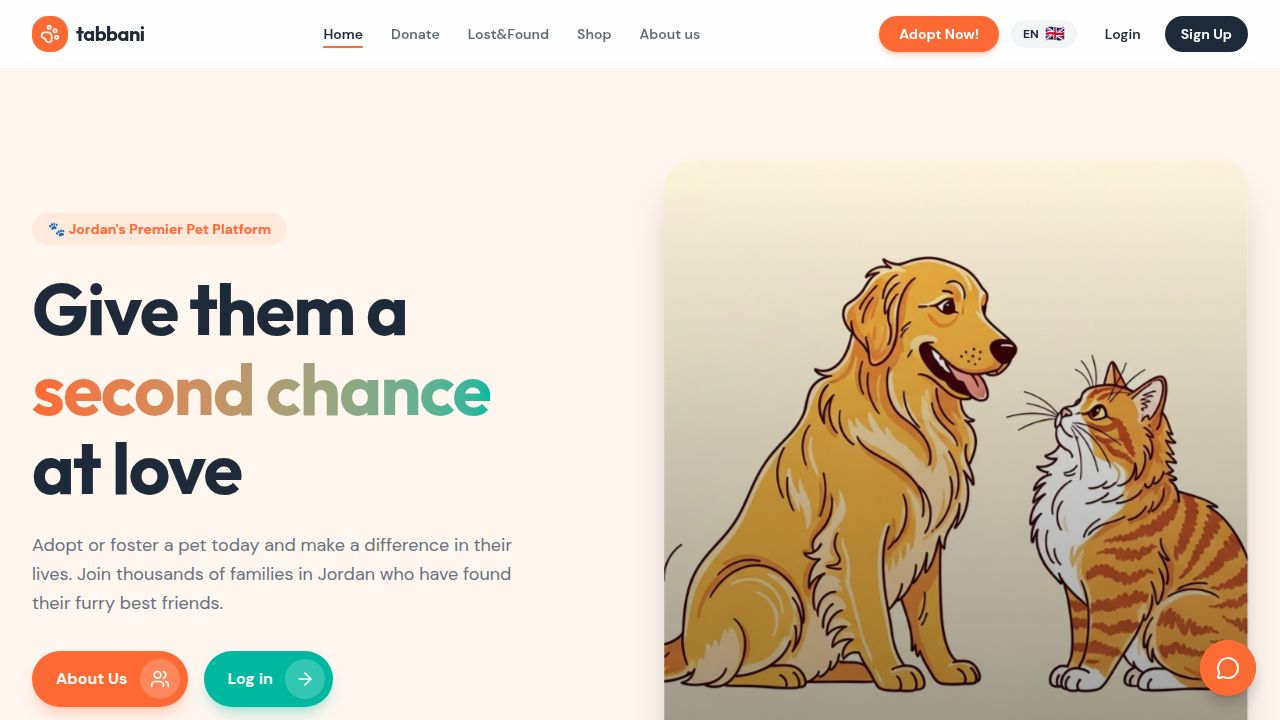
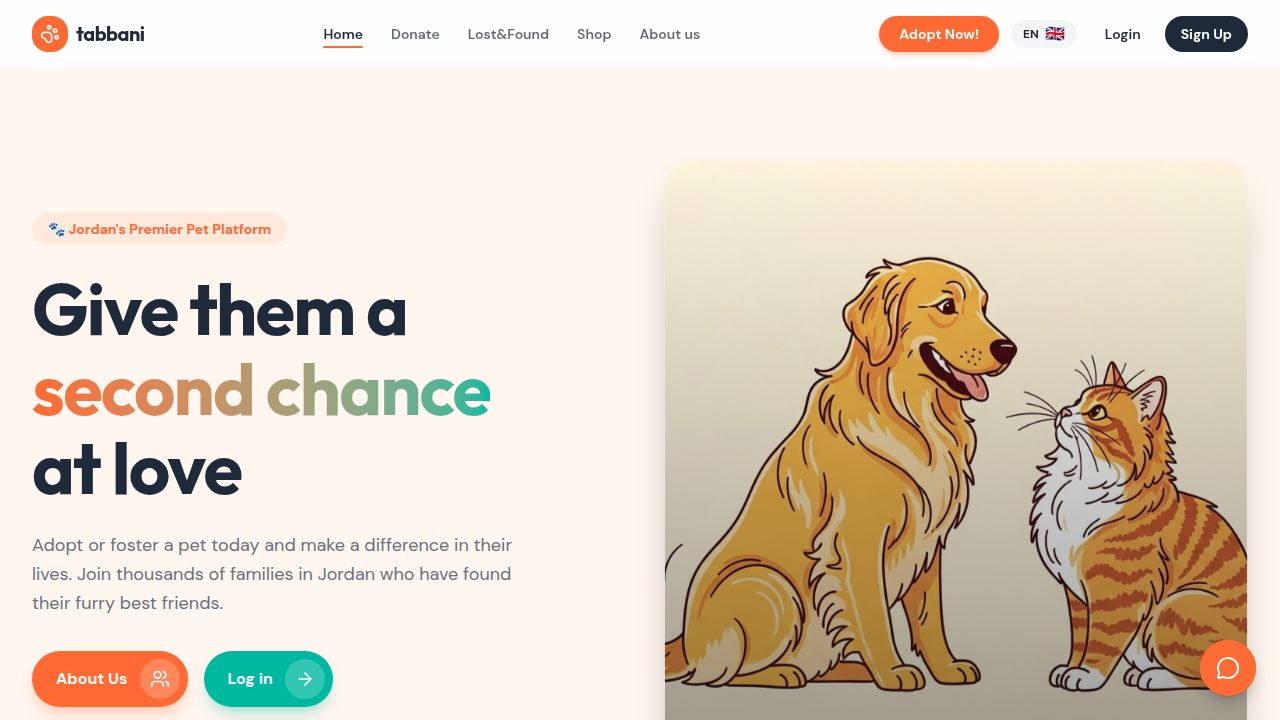
Task #61: Frontend performance optimization
Changes made:

1. Route-based code splitting (App.tsx)
   - Converted all 20+ page imports from static to React.lazy()
   - Added Suspense boundaries with spinner fallback (PageLoader)
   - Admin pages (12 routes), gallery, about, shop, donate, profile, etc. all lazy-loaded
   - AIChatWidget also lazy-loaded with null fallback

2. React Query defaults (App.tsx)
   - QueryClient now has staleTime: 60_000ms and refetchOnWindowFocus: false
   - Prevents unnecessary refetches on every component mount / tab switch

3. Adopt page server-side pagination (adopt.tsx)
   - Removed limit: 1000 and client-side filter/slice logic
   - Now uses page, limit: 20, and search params server-side
   - Added useDeferredValue for natural debouncing of search input
   - totalPages now comes from API response (data.totalPages)

4. Lost-found page improvements (lost-found.tsx)
   - Added search to ListLostFoundReportsQueryParams Zod schema (api-zod)
   - Added search ilike handler in lostFound.ts route
   - search is now sent server-side (no more client-side search)
   - isClientFiltering now only true for month/age filters (not search)
   - Limit reduced from 1000 to 200 when client filtering is active

5. Image lazy loading
   - pet-card.tsx: loading="lazy" decoding="async" on pet images
   - lost-found.tsx: loading="lazy" decoding="async" on report images
   - gallery.tsx already had loading="lazy" (no change needed)

6. Vite build chunk splitting (vite.config.ts)
[…]

diff --git a/artifacts/frontend/src/App.tsx b/artifacts/frontend/src/App.tsx
@@ -1,3 +1,4 @@
+import { lazy, Suspense } from "react";
 import { Switch, Route, Router as WouterRouter, Redirect } from "wouter";
 import { QueryClient, QueryClientProvider } from "@tanstack/react-query";
 import { Toaster } from "@/components/ui/toaster";
@@ -6,36 +7,52 @@ import { Layout } from "@/components/layout";
 import { AuthProvider, useAuth } from "@/contexts/auth-context";
 import OnboardingModal from "@/components/onboarding-modal";
 import CityGateModal from "@/components/city-gate-modal";
-import Home from "@/pages/home";
-import Adopt from "@/pages/adopt";
-import Foster from "@/pages/foster";
-import PetDetail from "@/pages/pet-detail";
-import LostFound from "@/pages/lost-found";
-import LostFoundDetail from "@/pages/lost-found-detail";
-import Donate from "@/pages/donate";
-import Gallery from "@/pages/gallery";
-import GalleryDetail from "@/pages/gallery-detail";
-import About from "@/pages/about";
-import Shop from "@/pages/shop";
-import Profile from "@/pages/profile";
-import Login from "@/pages/login";
-import Register from "@/pages/register";
-import AdminDashboard from "@/pages/admin/index";
-import AdminPets from "@/pages/admin/pets";
-import AdminUsers from "@/pages/admin/users";
-import AdminAdoptions from "@/pages/admin/adoptions";
-import AdminFosters from "@/pages/admin/fosters";
-import AdminAnalytics from "@/pages/admin/analytics";
-import AdminDonors from "@/pages/admin/donors";
-import AdminVolunteers from "@/pages/admin/volunteers";
-import AdminLostFound from "@/pages/admin/lost-found";
-import AdminContactMessages from "@/pages/admin/contact-messages";
-import AdminNotifications from "@/pages/admin/notifications";
-import AdminGallery from "@/pages/admin/gallery";
-import NotFound from "@/pages/not-found";
-import AIChatWidget from "@/components/ai-chat-widget";
 
-const queryClient = new QueryClient();
+const Home = lazy(() => import("@/pages/home"));
+const Login = lazy(() => import("@/pages/login"));
+const Register = lazy(() => import("@/pages/register"));
+const Adopt = lazy(() => import("@/pages/adopt"));
+const Foster = lazy(() => import("@/pages/foster"));
+const PetDetail = lazy(() => import("@/pages/pet-detail"));
+const LostFound = lazy(() => import("@/pages/lost-found"));
+const LostFoundDetail = lazy(() => import("@/pages/lost-found-detail"));
+const Donate = lazy(() => import("@/pages/donate"));
+const Gallery = lazy(() => import("@/pages/gallery"));
+const GalleryDetail = lazy(() => import("@/pages/gallery-detail"));
+const About = lazy(() => import("@/pages/about"));
+const Shop = lazy(() => import("@/pages/shop"));
+const Profile = lazy(() => import("@/pages/profile"));
+const AdminDashboard = lazy(() => import("@/pages/admin/index"));
+const AdminPets = lazy(() => import("@/pages/admin/pets"));
+const AdminUsers = lazy(() => import("@/pages/admin/users"));
+const AdminAdoptions = lazy(() => import("@/pages/admin/adoptions"));
+const AdminFosters = lazy(() => import("@/pages/admin/fosters"));
+const AdminAnalytics = lazy(() => import("@/pages/admin/analytics"));
+const AdminDonors = lazy(() => import("@/pages/admin/donors"));
+const AdminVolunteers = lazy(() => import("@/pages/admin/volunteers"));
+const AdminLostFound = lazy(() => import("@/pages/admin/lost-found"));
+const AdminContactMessages = lazy(() => import("@/pages/admin/contact-messages"));
+const AdminNotifications = lazy(() => import("@/pages/admin/notifications"));
+const AdminGallery = lazy(() => import("@/pages/admin/gallery"));
+const NotFound = lazy(() => import("@/pages/not-found"));
+const AIChatWidget = lazy(() => import("@/components/ai-chat-widget"));
+
+const queryClient = new QueryClient({
+  defaultOptions: {
+    queries: {
+      staleTime: 60_000,
+      refetchOnWindowFocus: false,
+    },
+  },
+});
+
+function PageLoader() {
+  return (
+    <div className="flex min-h-[40vh] items-center justify-center">
+      <div className="w-8 h-8 border-4 border-primary/20 border-t-primary rounded-full animate-spin" />
+    </div>
+  );
+}
 
 function AdminGuard({ children }: { children: React.ReactNode }) {
   const { user, isLoading } = useAuth();
@@ -70,67 +87,70 @@ function AppRoutes() {
     <OnboardingGate />
     <CityGate />
     <Switch>
-      {/* Auth pages — no layout wrapper */}
-      <Route path="/login" component={Login} />
-      <Route path="/register" component={Register} />
+      <Route path="/login">
+        <Suspense fallback={<PageLoader />}><Login /></Suspense>
+      </Route>
+      <Route path="/register">
+        <Suspense fallback={<PageLoader />}><Register /></Suspense>
+      </Route>
 
-      {/* Admin routes */}
       <Route path="/admin">
-        {() => <AdminGuard><AdminDashboard /></AdminGuard>}
+        {() => <AdminGuard><Suspense fallback={<PageLoader />}><AdminDashboard /></Suspense></AdminGuard>}
       </Route>
       <Route path="/admin/pets">
-        {() => <AdminGuard><AdminPets /></AdminGuard>}
+        {() => <AdminGuard><Suspense fallback={<PageLoader />}><AdminPets /></Suspense></AdminGuard>}
       </Route>
       <Route path="/admin/users">
-        {() => <AdminGuard><AdminUsers /></AdminGuard>}
+        {() => <AdminGuard><Suspense fallback={<PageLoader />}><AdminUsers /></Suspense></AdminGuard>}
       </Route>
       <Route path="/admin/adoptions">
-        {() => <AdminGuard><AdminAdoptions /></AdminGuard>}
+        {() => <AdminGuard><Suspense fallback={<PageLoader />}><AdminAdoptions /></Suspense></AdminGuard>}
       </Route>
       <Route path="/admin/fosters">
-        {() => <AdminGuard><AdminFosters /></AdminGuard>}
+        {() => <AdminGuard><Suspense fallback={<PageLoader />}><AdminFosters /></Suspense></AdminGuard>}
       </Route>
       <Route path="/admin/analytics">
-        {() => <AdminGuard><AdminAnalytics /></AdminGuard>}
+        {() => <AdminGuard><Suspense fallback={<PageLoader />}><AdminAnalytics /></Suspense></AdminGuard>}
       </Route>
       <Route path="/admin/donors">
-        {() => <AdminGuard><AdminDonors /></AdminGuard>}
+        {() => <AdminGuard><Suspense fallback={<PageLoader />}><AdminDonors /></Suspense></AdminGuard>}
       </Route>
       <Route path="/admin/volunteers">
-        {() => <AdminGuard><AdminVolunteers /></AdminGuard>}
+        {() => <AdminGuard><Suspense fallback={<PageLoader />}><AdminVolunteers /></Suspense></AdminGuard>}
       </Route>
       <Route path="/admin/lost-found">
-        {() => <AdminGuard><AdminLostFound /></AdminGuard>}
+        {() => <AdminGuard><Suspense fallback={<PageLoader />}><AdminLostFound /></Suspense></AdminGuard>}
       </Route>
       <Route path="/admin/contact-messages">
-        {() => <AdminGuard><AdminContactMessages /></AdminGuard>}
+        {() => <AdminGuard><Suspense fallback={<PageLoader />}><AdminContactMessages /></Suspense></AdminGuard>}
       </Route>
       <Route path="/admin/notifications">
-        {() => <AdminGuard><AdminNotifications /></AdminGuard>}
+        {() => <AdminGuard><Suspense fallback={<PageLoader />}><AdminNotifications /></Suspense></AdminGuard>}
       </Route>
       <Route path="/admin/gallery">
-        {() => <AdminGuard><AdminGallery /></AdminGuard>}
+        {() => <AdminGuard><Suspense fallback={<PageLoader />}><AdminGallery /></Suspense></AdminGuard>}
       </Route>
 
-      {/* All other routes use the Layout with navbar */}
       <Route>
         <Layout>
-          <Switch>
-            <Route path="/" component={Home} />
-            <Route path="/adopt" component={Adopt} />
-            <Route path="/foster" component={Foster} />
-            <Route path="/pets/:id" component={PetDetail} />
-            <Route path="/lost-found/:id" component={LostFoundDetail} />
-            <Route path="/lost-found" component={LostFound} />
-            <Route path="/donate" component={Donate} />
-            <Route path="/gallery/:id" component={GalleryDetail} />
-            <Route path="/gallery" component={Gallery} />
-            <Route path="/about" component={About} />
-            <Route path="/shop" component={Shop} />
-            <Route path="/profile" component={Profile} />
-            <Route component={NotFound} />
-          </Switch>
-          <AIChatWidget />
+          <Suspense fallback={<PageLoader />}>
+            <Switch>
+              <Route path="/" component={Home} />
+              <Route path="/adopt" component={Adopt} />
+              <Route path="/foster" component={Foster} />
+              <Route path="/pets/:id" component={PetDetail} />
+              <Route path="/lost-found/:id" component={LostFoundDetail} />
+              <Route path="/lost-found" component={LostFound} />
+              <Route path="/donate" component={Donate} />
+              <Route path="/gallery/:id" component={GalleryDetail} />
+              <Route path="/gallery" component={Gallery} />
+              <Route path="/about" component={About} />
+              <Route path="/shop" component={Shop} />
+              <Route path="/profile" component={Profile} />
+              <Route component={NotFound} />
+            </Switch>
+          </Suspense>
+          <Suspense fallback={null}><AIChatWidget /></Suspense>
         </Layout>
       </Route>
     </Switch>

diff --git a/artifacts/frontend/src/pages/adopt.tsx b/artifacts/frontend/src/pages/adopt.tsx
@@ -1,4 +1,4 @@
-import { useState } from "react";
+import { useState, useDeferredValue } from "react";
 import { useLocation } from "wouter";
 import { useListPets } from "@workspace/api-client-react";
 import { PetCard } from "@/components/pet-card";
@@ -12,6 +12,7 @@ type PurposeFilter = "adopt" | "foster" | "both";
 
 export default function Adopt() {
   const [search, setSearch] = useState("");
+  const deferredSearch = useDeferredValue(search);
   const [purpose, setPurpose] = useState<PurposeFilter>("adopt");
   const [page, setPage] = useState(1);
   const pageSize = 20;
@@ -33,6 +34,7 @@ export default function Adopt() {
       title: wasAdded ? t("adopt.addedToFav") : t("adopt.removedFromFav"),
     });
   };
+
   const [filters, setFilters] = useState<FilterBarState>({
     type: "", gender: "", minAge: "", maxAge: "", size: "", city: "", breed: "", month: "", sterilized: "",
   });
@@ -50,8 +52,9 @@ export default function Adopt() {
 
   const ageRange = parseAgeRange(filters.minAge);
 
-  const { data: rawData, isLoading, isError } = useListPets({
+  const { data, isLoading, isError } = useListPets({
     purpose: purpose === "both" ? undefined : purpose,
+    search: deferredSearch || undefined,
     type: filters.type || undefined,
     gender: filters.gender || undefined,
     size: filters.size || undefined,
@@ -60,23 +63,9 @@ export default function Adopt() {
     sterilized: sterilizedParam,
     minAge: ageRange.minAge,
     maxAge: ageRange.maxAge,
-    limit: 1000,
+    page,
+    limit: pageSize,
   });
-
-  const data = (() => {
-    if (!rawData) return rawData;
-    if (!search.trim()) return { ...rawData, pets: rawData.pets?.slice((page - 1) * pageSize, page * pageSize), total: rawData.pets?.length ?? 0 };
-    const tokens = search.trim().toLowerCase().split(/\s+/);
-    const filtered = (rawData.pets ?? []).filter((pet) => {
-      const haystack = [
-        pet.name, pet.type, pet.gender, pet.size, pet.city, pet.breed,
-        pet.ageMonths != null ? String(pet.ageMonths) : "",
-        pet.sterilized != null ? (pet.sterilized ? "yes sterilized" : "no not sterilized") : "",
-      ].join(" ").toLowerCase();
-      return tokens.every((token) => haystack.includes(token));
-    });
-    return { ...rawData, pets: filtered.slice((page - 1) * pageSize, page * pageSize), total: filtered.length };
-  })();
 
   const totalPages = Math.ceil((data?.total ?? 0) / pageSize) || 1;
 

diff --git a/artifacts/frontend/vite.config.ts b/artifacts/frontend/vite.config.ts
@@ -57,6 +57,30 @@ export default defineConfig({
   build: {
     outDir: path.resolve(import.meta.dirname, "dist/public"),
     emptyOutDir: true,
+    rollupOptions: {
+      output: {
+        manualChunks(id) {
+          if (id.includes("node_modules/react/") || id.includes("node_modules/react-dom/") || id.includes("node_modules/scheduler/")) {
+            return "vendor-react";
+          }
+          if (id.includes("node_modules/@tanstack/")) {
+            return "vendor-query";
+          }
+          if (id.includes("node_modules/@radix-ui/")) {
+            return "vendor-radix";
+          }
+          if (id.includes("node_modules/i18next") || id.includes("node_modules/react-i18next")) {
+            return "vendor-i18n";
+          }
+          if (id.includes("node_modules/framer-motion/") || id.includes("node_modules/motion/")) {
+            return "vendor-motion";
+          }
+          if (id.includes("node_modules/")) {
+            return "vendor-misc";
+          }
+        },
+      },
+    },
   },
   server: {
     port,

diff --git a/artifacts/frontend/src/pages/lost-found.tsx b/artifacts/frontend/src/pages/lost-found.tsx
@@ -1,4 +1,4 @@
-import { useState, useRef } from "react";
+import { useState, useRef, useDeferredValue } from "react";
 import { Link } from "wouter";
 import {
   useListLostFoundReports,
@@ -60,6 +60,7 @@ export default function LostFound() {
   const { user } = useAuth();
   const [tab, setTab] = useState<"lost" | "found">("lost");
   const [search, setSearch] = useState("");
+  const deferredSearch = useDeferredValue(search);
   const [filters, setFilters] = useState<FilterBarState>({
     type: "", gender: "", minAge: "", maxAge: "", size: "", city: "", breed: "", month: "", sterilized: "",
   });
@@ -72,15 +73,16 @@ export default function LostFound() {
   const { toast } = useToast();
   const pageSize = 20;
 
-  const isClientFiltering = !!(search || filters.month || filters.minAge);
+  const isClientFiltering = !!(filters.month || filters.minAge);
   const { data, isLoading, isError, refetch } = useListLostFoundReports({
     reportType: tab,
+    search: deferredSearch || undefined,
     type: filters.type || undefined,
     city: filters.city || undefined,
     gender: filters.gender || undefined,
     size: filters.size || undefined,
     breed: filters.breed || undefined,
-    limit: isClientFiltering ? 1000 : pageSize,
+    limit: isClientFiltering ? 200 : pageSize,
     page: isClientFiltering ? 1 : page,
   });
 
@@ -175,12 +177,6 @@ export default function LostFound() {
   ];
 
   const reports = allReports.filter((r) => {
-    const matchesSearch = !search || (
-      r.name?.toLowerCase().includes(search.toLowerCase()) ||
-      r.type?.toLowerCase().includes(search.toLowerCase()) ||
-      r.breed?.toLowerCase().includes(search.toLowerCase()) ||
-      r.city?.toLowerCase().includes(search.toLowerCase())
-    );
     const matchesMonth = !filters.month || (() => {
       const monthIdx = MONTH_NAMES.indexOf(filters.month.toLowerCase());
       if (monthIdx === -1) return true;
@@ -200,7 +196,7 @@ export default function LostFound() {
     })();
     const matchesMinAge = parsedAge.min === null || age === null || age >= parsedAge.min;
     const matchesMaxAge = parsedAge.max === null || age === null || age <= parsedAge.max;
-    return matchesSearch && matchesMonth && matchesMinAge && matchesMaxAge;
+    return matchesMonth && matchesMinAge && matchesMaxAge;
   });
 
   const total = data?.total ?? 0;
@@ -295,6 +291,8 @@ export default function LostFound() {
                       <img
                         src={report.imageUrls?.[0] || "https://images.unsplash.com/photo-1543466835-00a7907e9de1?w=600"}
                         alt={report.name}
+                        loading="lazy"
+                        decoding="async"
                         className="w-full h-full object-cover hover:scale-105 transition-transform duration-500"
                       />
                       <div className={`absolute top-3 left-3 px-2 py-0.5 rounded-full text-white text-xs font-bold ${

diff --git a/artifacts/api-server/src/routes/lostFound.ts b/artifacts/api-server/src/routes/lostFound.ts
@@ -13,7 +13,7 @@ router.get("/lost-found", async (req, res) => {
       return res.status(400).json({ error: "validation_error", message: "Invalid query parameters", details: queryParsed.error.issues });
     }
 
-    const { reportType, type, city, gender, size, breed, page = 1, limit = 16, reporterId } = queryParsed.data;
+    const { reportType, type, city, gender, size, breed, search, page = 1, limit = 16, reporterId } = queryParsed.data;
     const pageNum = page;
     const limitNum = limit;
     const offset = (pageNum - 1) * limitNum;
@@ -28,6 +28,7 @@ router.get("/lost-found", async (req, res) => {
     if (gender) conditions.push(eq(lostFoundReportsTable.gender, gender));
     if (size) conditions.push(eq(lostFoundReportsTable.size, size));
     if (breed) conditions.push(ilike(lostFoundReportsTable.breed, `%${breed}%`));
+    if (search) conditions.push(ilike(lostFoundReportsTable.name, `%${search}%`));
 
     if (reporterId !== undefined) {
       conditions.push(eq(lostFoundReportsTable.reporterId, reporterId));

diff --git a/artifacts/frontend/src/components/pet-card.tsx b/artifacts/frontend/src/components/pet-card.tsx
@@ -52,6 +52,8 @@ export function PetCard({ pet, onFavorite, isFavorited, isFavoritePending, varia
         <img
           src={imageUrl}
           alt={pet.name}
+          loading="lazy"
+          decoding="async"
           className="w-full h-full object-cover group-hover:scale-105 transition-transform duration-500"
         />
 